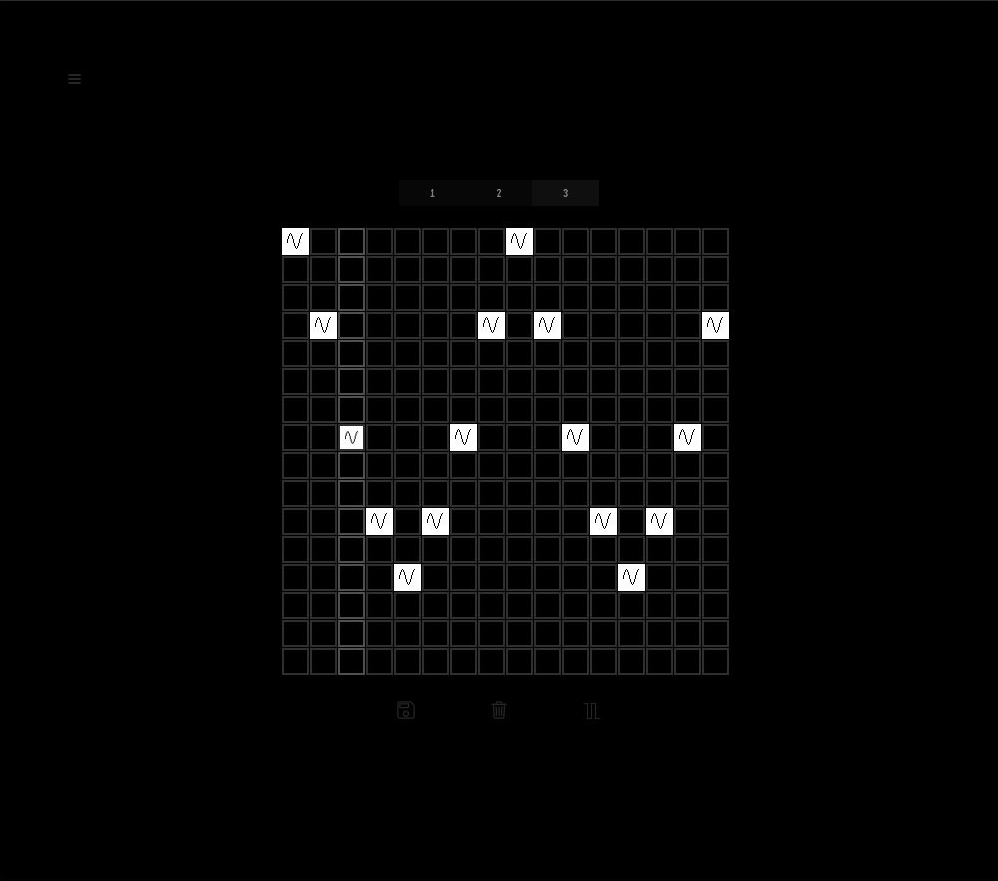
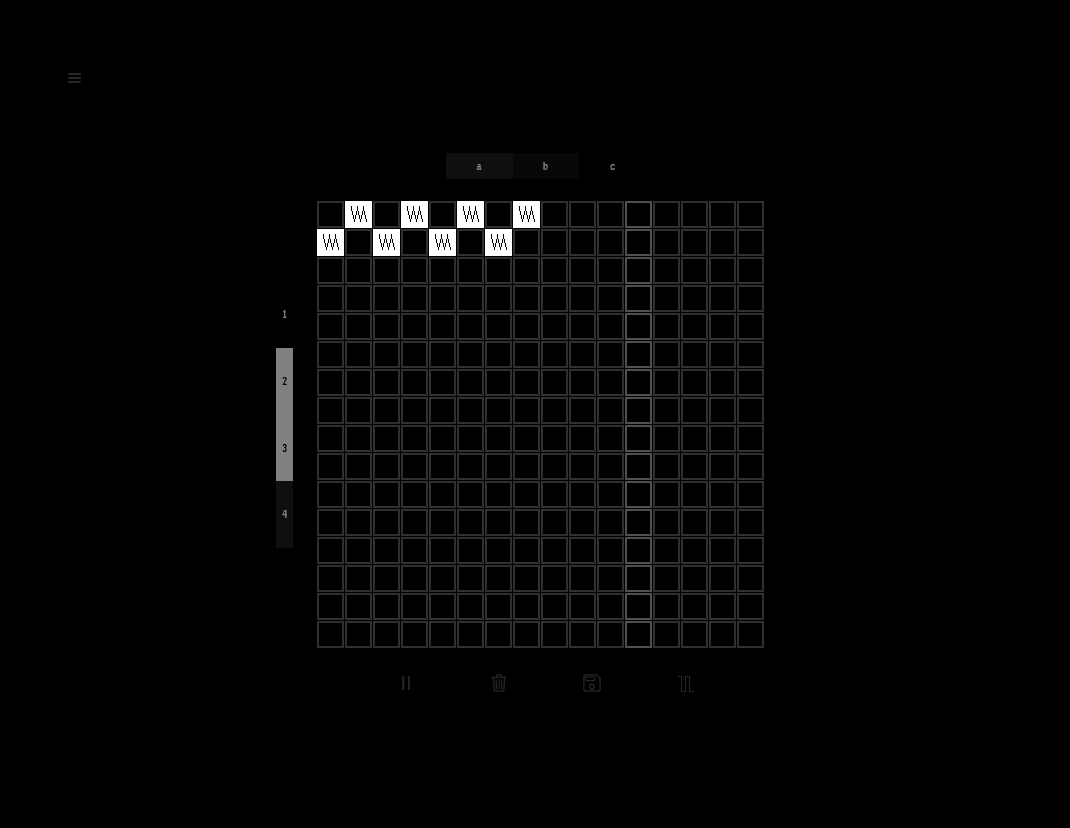
fix broken stuff for layers, add cool animations for layer stuff and other stuff but i honestly forgot and its 6:30am and i just want to sleep

Changed region(s): [[0.2485, 0.2415, 0.7455, 0.785]]

diff --git a/public/javascripts/main.js b/public/javascripts/main.js
@@ -21,6 +21,8 @@ const pitches = [
 // i think i saw something with logarithms but ummm unfortunately
 // i am not the best at math
 
+// todo: (kind of unnecessary but itll look cool) maybe like for the layers light it up when its playing a note
+
 const waveforms = ['square', 'sawtooth', 'sine', 'triangle'];   // allowed waveforms
 var c = new AudioContext();
 var o, g = null;
@@ -109,30 +111,66 @@ function createNote(row, noteNum) {
     });
 }
 
-function clearNotes() {
-    $('div#grid' + currentLayer).children().removeClass('live');
-    // $('div#grid').children().text("");
-    $('div#grid' + currentLayer).children().removeClass('squareTile sineTile sawtoothTile triangleTile');
 
-    selectedNotes = [];
-}
 
 let currentTab = 1;         // set the current tab and default (1)
 let currentLayer = 1;
 let selectedNotes = [];     // notes that are 'lit up' on the board, none by default
-let visibleNotes = [];
+// let visibleNotes = [];      // i forgot what this does to be honest
 let currentwaveForm = 0;    // default to square wave (look at const waveforms for reference)
 let vol = 0.3;              // volume var, can set default here
-let paused = false;         //
+let paused = false;         // playing by default, can pause playback by setting to false
 let columnOffset = 0;       // current playing column
 let visibleOffset = 0;      // set offset for visible grid buttons (256 * (0, 1, 2, 3))
 let activeNotes = [];       // notes that are highlighted by the omnipresent moving bar
 let layerIndex = 0;
+let activeLayers = [];
+
+function localStorageExporter(currentTab) {
+    switch (currentTab) {
+        case 1:
+            localStorage.setItem('tab1data', exportNotes());
+            break;
+        case 2:
+            localStorage.setItem('tab2data', exportNotes());
+            break;
+        case 3:
+            localStorage.setItem('tab3data', exportNotes());
+            break;
+    }
+}
+
+function clearNotes() {
+    if (arguments[0] == 'cool') { // delete only the current layer's notes instead of everything
+        // console.log('WARNING :  ACTIVATING COOL MODE ........ WEEEEEEWOOOOOWEEEEWOOOOOOOOO [ COOL ACTIVATEING ]');
+
+        $('div#grid' + currentLayer).children().removeClass('live squareTile sineTile sawtoothTile triangleTile');
+
+        for (let i = (256 * (currentLayer - 1)); i < (256 * currentLayer); i++) {
+            // console.log('deleting: ' + i);
+            // remove the note from selectednotes so we can export it
+            selectedNotes = selectedNotes.filter(e => e !== ('' + i));
+            // console.log(selectedNotes);
+        }
+    }
+    else {
+        for (let i = 1; i <= 4; i++) {
+            // $('div#grid' + i).children().removeClass('live');
+            $('div#grid' + i).children().removeClass('live squareTile sineTile sawtoothTile triangleTile');
+        }
+        selectedNotes = [];
+    }
+}
 
 function notePlayer() {
     visibleOffset = (currentLayer - 1) * 256;
     // reset position once we reach the end
     if (columnOffset > 15) columnOffset = 0;
+
+    // reset layer lit
+    for (let i = 1; i <= 4; i++) {
+        $('#layer' + i).removeClass('layerlit');
+    }
 
     while (layerIndex < 4) {
         for (let i = 0; i <= 15; i++) {
@@ -142,7 +180,9 @@ function notePlayer() {
             // play the note if it has the live class
             if ($('#note' + (columnOffset + (layerIndex * 256) + (i * 16))).hasClass('live')) {
                 playNote(pitches[15 - i], vol, $('#note' + (columnOffset  + (layerIndex * 256) + (i * 16))).data('waveform'), c.currentTime, c.currentTime + 0.150);
+                activeLayers.push(layerIndex + 1);
             }
+
         }
         layerIndex++;
     }
@@ -156,9 +196,22 @@ function notePlayer() {
             $('#note' + j).removeClass('playing');
         }
     }
+
+    // make layer button lit up if its currently playing something
+    for (let i = 1; i <= 4; i++) {
+        if (activeLayers.includes(i)) {
+            $('#layer' + i).addClass('layerlit');
+        }
+    }
+
+    // for (let i = 0; i < 4; i++) {
+    //     $('layer' + (i + 1)).removeClass('layerlit');
+    // }
+
     columnOffset++;     // increment the current column
     activeNotes = [];   // reset the active notes, since we moved to the next column
     layerIndex = 0;
+    activeLayers = [];
 }
 
 function exportNotes() {
@@ -199,8 +252,7 @@ function loadNotes(noteString) {
 
 function changeTab(tab) {
     currentTab = tab;                                           // set global currentTab to new tab
-    // TODO: FIX CHANGING TABS RIGHT AWAY I HAVE TO BE RIGHT BACK OOOOOOOPS
-    clearNotes(); // clear al all notes on grid currently
+    clearNotes();                                               // clear all notes on grid currently
     loadNotes(localStorage.getItem('tab' + tab + 'data'));  // load notes from the string saved in localstorage
 
     for (let i = 1; i <= 3; i++) {
@@ -216,6 +268,7 @@ function changeTab(tab) {
         else
             $('#tab' + i).removeClass('emptytab');
     }
+    changeLayer(currentLayer); // update layer information for the empty/full thing
 }
 
 function changeLayer(layer) {
@@ -224,13 +277,32 @@ function changeLayer(layer) {
         if (i != layer) {
             $('#grid' + i).removeClass('gridstyle');
             $('#grid' + i).addClass('gridstylehidden');
+            $('#layer' + i).removeClass('activetab');
+            $('#layer' + i).addClass('emptytab');
+        }
+    }
+
+    // go through the notes that will be played and determine if the layer is empty or not
+    // maybe this is a little unnecessary for just a little visual feature (its really unnecessary)
+    for (let i = 0; i < selectedNotes.length; i++) {
+        if (selectedNotes[i] >= 0 && selectedNotes[i] < 256) {
+            $('#layer1').removeClass('emptytab');
+        }
+        else if (selectedNotes[i] >= 256 && selectedNotes[i] < 512) {
+            $('#layer2').removeClass('emptytab');
+        }
+        else if (selectedNotes[i] >= 512 && selectedNotes[i] < 768) {
+            $('#layer3').removeClass('emptytab');
+        }
+        else if (selectedNotes[i] >= 768 && selectedNotes[i] < 1024) {
+            $('#layer4').removeClass('emptytab');
         }
     }
 
     $('#grid' + layer).removeClass('gridstylehidden');
     $('#grid' + layer).addClass('gridstyle');
-
-
+    $('#layer' + layer).removeClass('emptytab');
+    $('#layer' + layer).addClass('activetab');
 }
 
 $(function() {
@@ -242,11 +314,6 @@ $(function() {
                 createNote(row, noteNum++);
     }
 
-    
-    // slice the waveforms text to only 3 chars
-    // $('#waveforms').text(waveforms[currentwaveForm].slice(0, 3));
-
-    // todo: add pause feature, maybe tie in with the suspended stuff
     if (c.state == 'suspended') {
         console.log('audiocontext is suspended, click anywhere to attempt to resume it...');
     }
@@ -259,7 +326,7 @@ $(function() {
     // clear button logic: remove anything that is active ('live'),
     // reset any text on the notes, and then remove any selected notes
     $('#clearbutton').on('click', function() {
-        clearNotes();
+        clearNotes('cool');
     });
 
     $('#playbackbutton').on('click', function() {
@@ -272,7 +339,6 @@ $(function() {
         }
     })
 
-
     // if the data doesnt exist then it breaks, so we initialize it
     if (localStorage.getItem('tab1data') == null) {
         localStorage.setItem('tab1data', "X");
@@ -281,6 +347,7 @@ $(function() {
     }
     // set the default tab to 1
     changeTab(1);
+    changeLayer(1);
 
     // logic for volume slider
     $('#volume').on('input', function() {
@@ -298,18 +365,10 @@ $(function() {
         console.log("Copied text to clipboard!");
     });
 
-    $('#main, #clearbutton, #loadbutton').on('click', function() {
-        switch (currentTab) {
-            case 1:
-                localStorage.setItem('tab1data', exportNotes());
-                break;
-            case 2:
-                localStorage.setItem('tab2data', exportNotes());
-                break;
-            case 3:
-                localStorage.setItem('tab3data', exportNotes());
-                break;
-        }
+    // todo: fix stuff where if you import something it doesnt automatically update the layer if it went
+    // from being empty to full (maybe just be lazy and add changelayer(currentlayer) or something idk)
+    $('#main, #loadbutton, #clearbutton').on('click', function() {
+        localStorageExporter(currentTab);
     });
 
     // logic for the waveform button, displays the current waveform text
@@ -342,7 +401,7 @@ $(function() {
 
     });
 
-    // amazing tab logic :3 (im so sorry)
+    // amazing tab AND layer logic :3 (im so sorry)
     $('#tab1').on('click', function() {changeTab(1);});
     $('#tab2').on('click', function() {changeTab(2);});
     $('#tab3').on('click', function() {changeTab(3);});

diff --git a/public/stylesheets/style.css b/public/stylesheets/style.css
@@ -45,12 +45,12 @@ a {
   border-color: #2f2f2f;
   z-index: 95;
 }
-
+/*todo: maybe fix centering, for some reason its literally off by like 10 pixels idk why*/
 #main {
   position: absolute;
   top: 50%;
-  left: 50%;
-  margin-right: -50%;
+  left: 51%;
+  margin-right: -20%;
   transform: translate(-50%, -50%);
 }
 
@@ -179,7 +179,7 @@ a {
 }
 
 .emptytab {
-  background-color: #000000;
+  background-color: #000000 !important;
 }
 
 #layers {
@@ -192,6 +192,7 @@ a {
   position: absolute;
   justify-content: left;
   align-content: center;
+
   /*grid-template-columns: repeat(1, 1em);*/
   gap: 0em;
   /*grid-auto-rows: minmax(0em, 0em);*/
@@ -208,12 +209,17 @@ a {
   height: 5em;
   /*width: 5em;*/
   opacity: 50%;
-  transition: opacity 0.3s;
+  transition: all 0.3s;
 }
 
 .layerbutton:hover {
   opacity: 100%;
   cursor: pointer;
+}
+
+.layerlit {
+  background-color: var(--foreground) !important;
+  color: var(--background) !important;
 }
 
 /* #menuButton {
